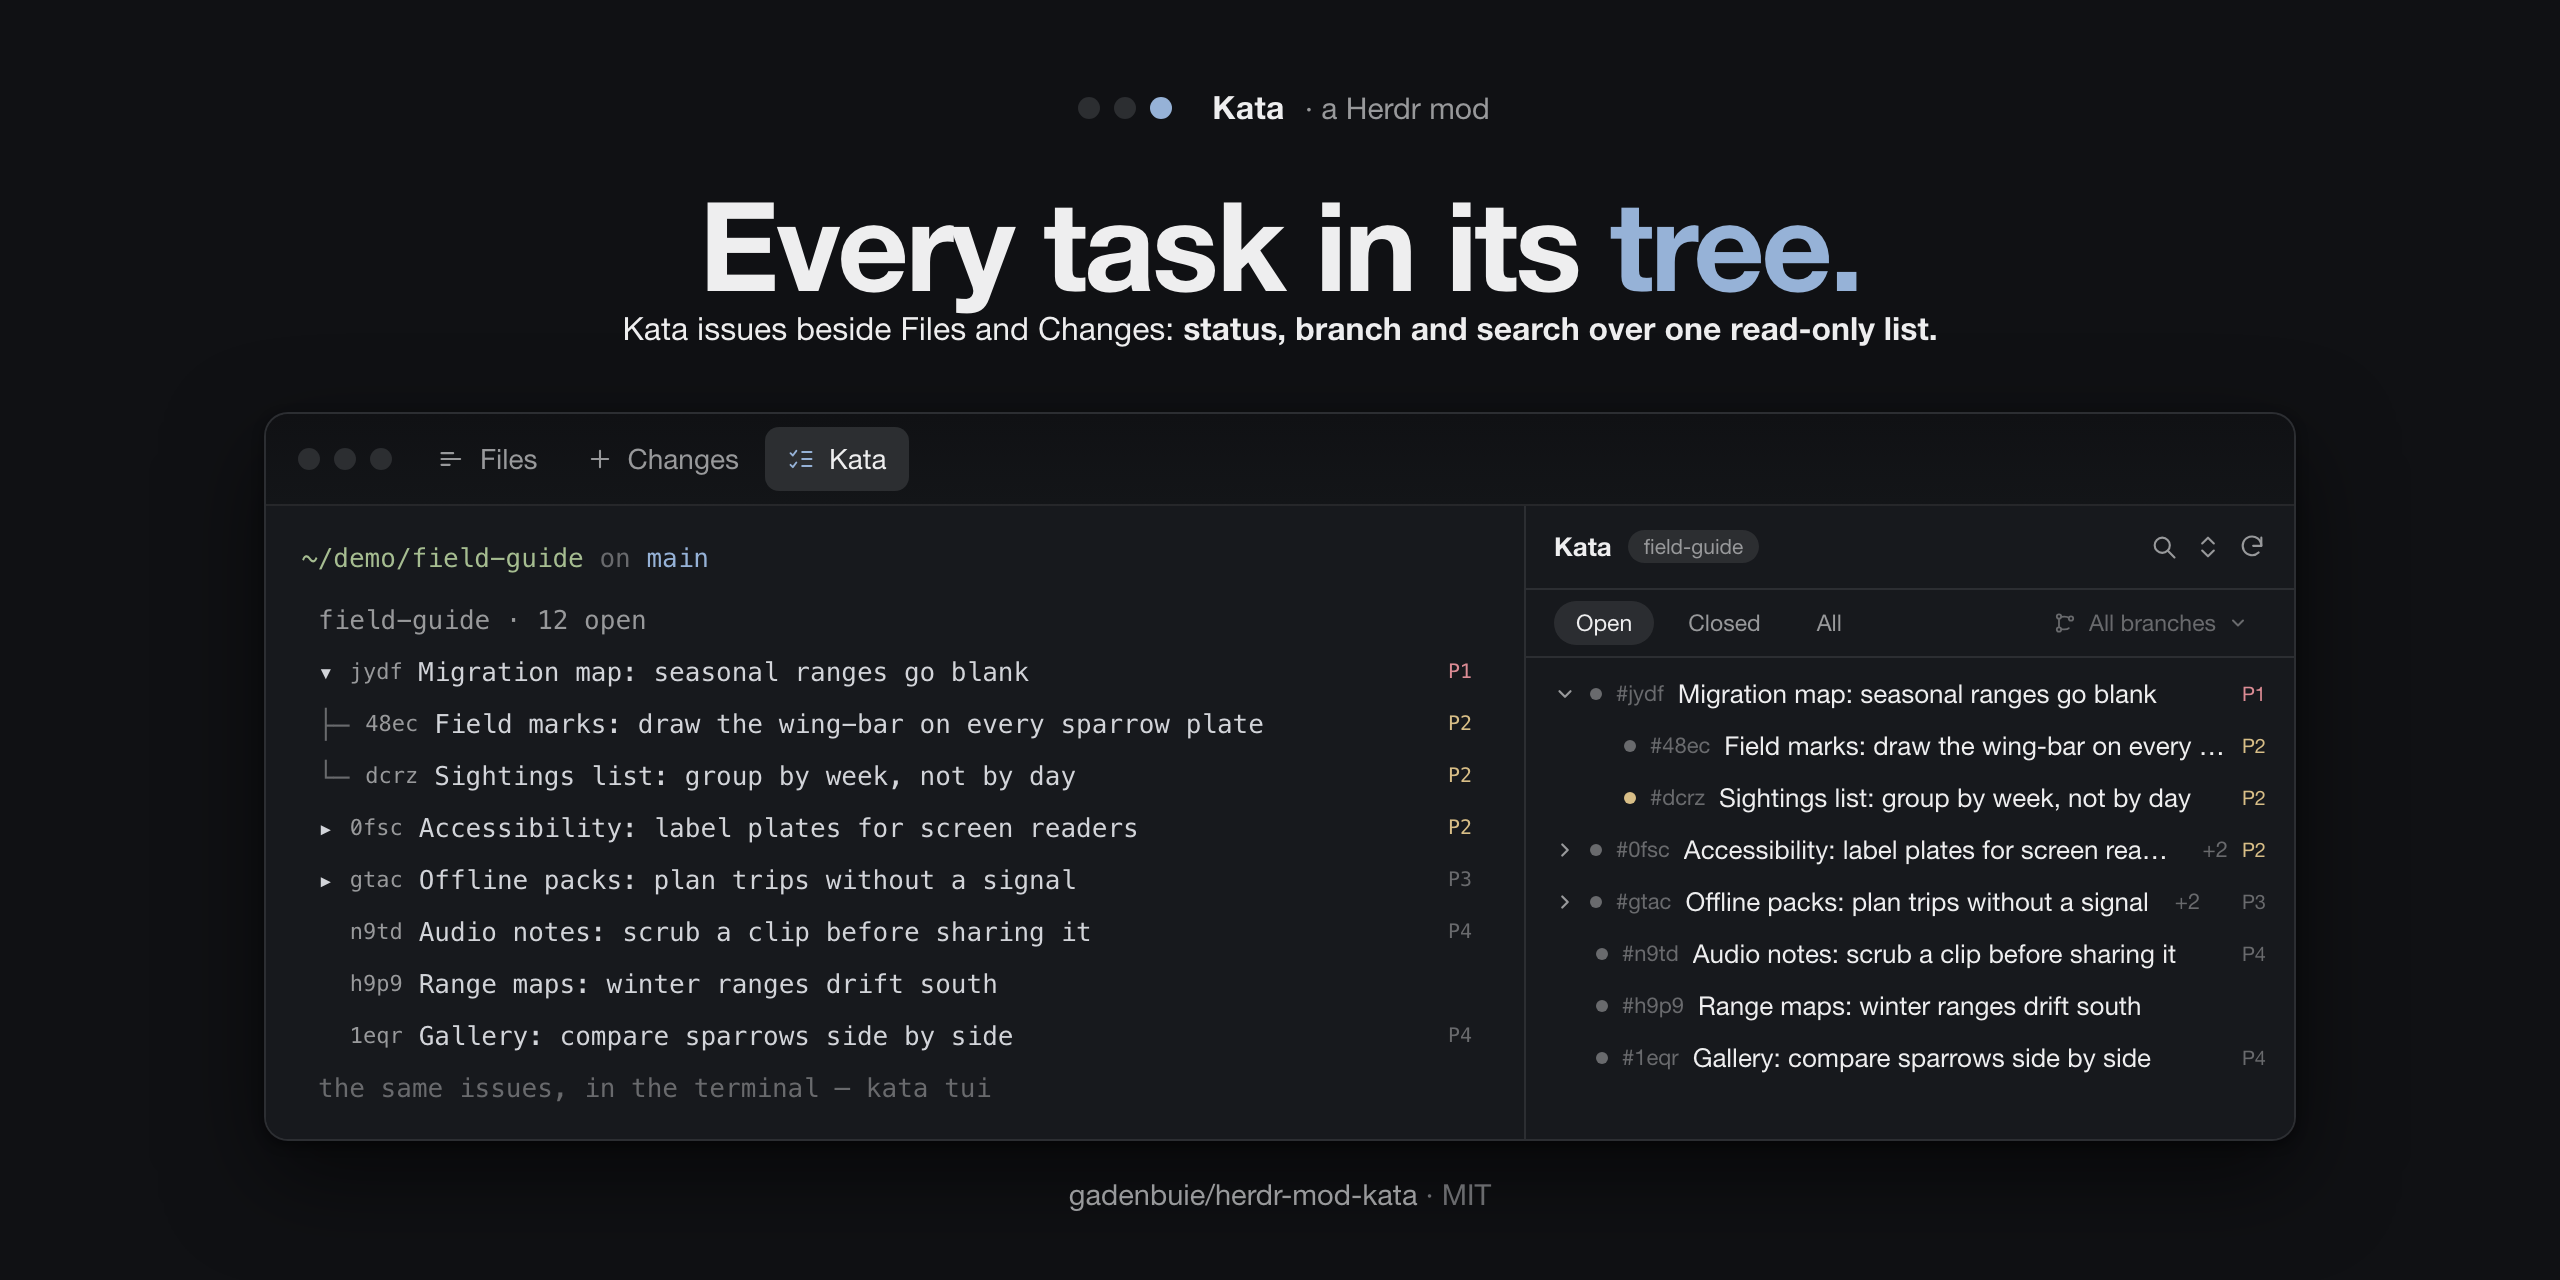
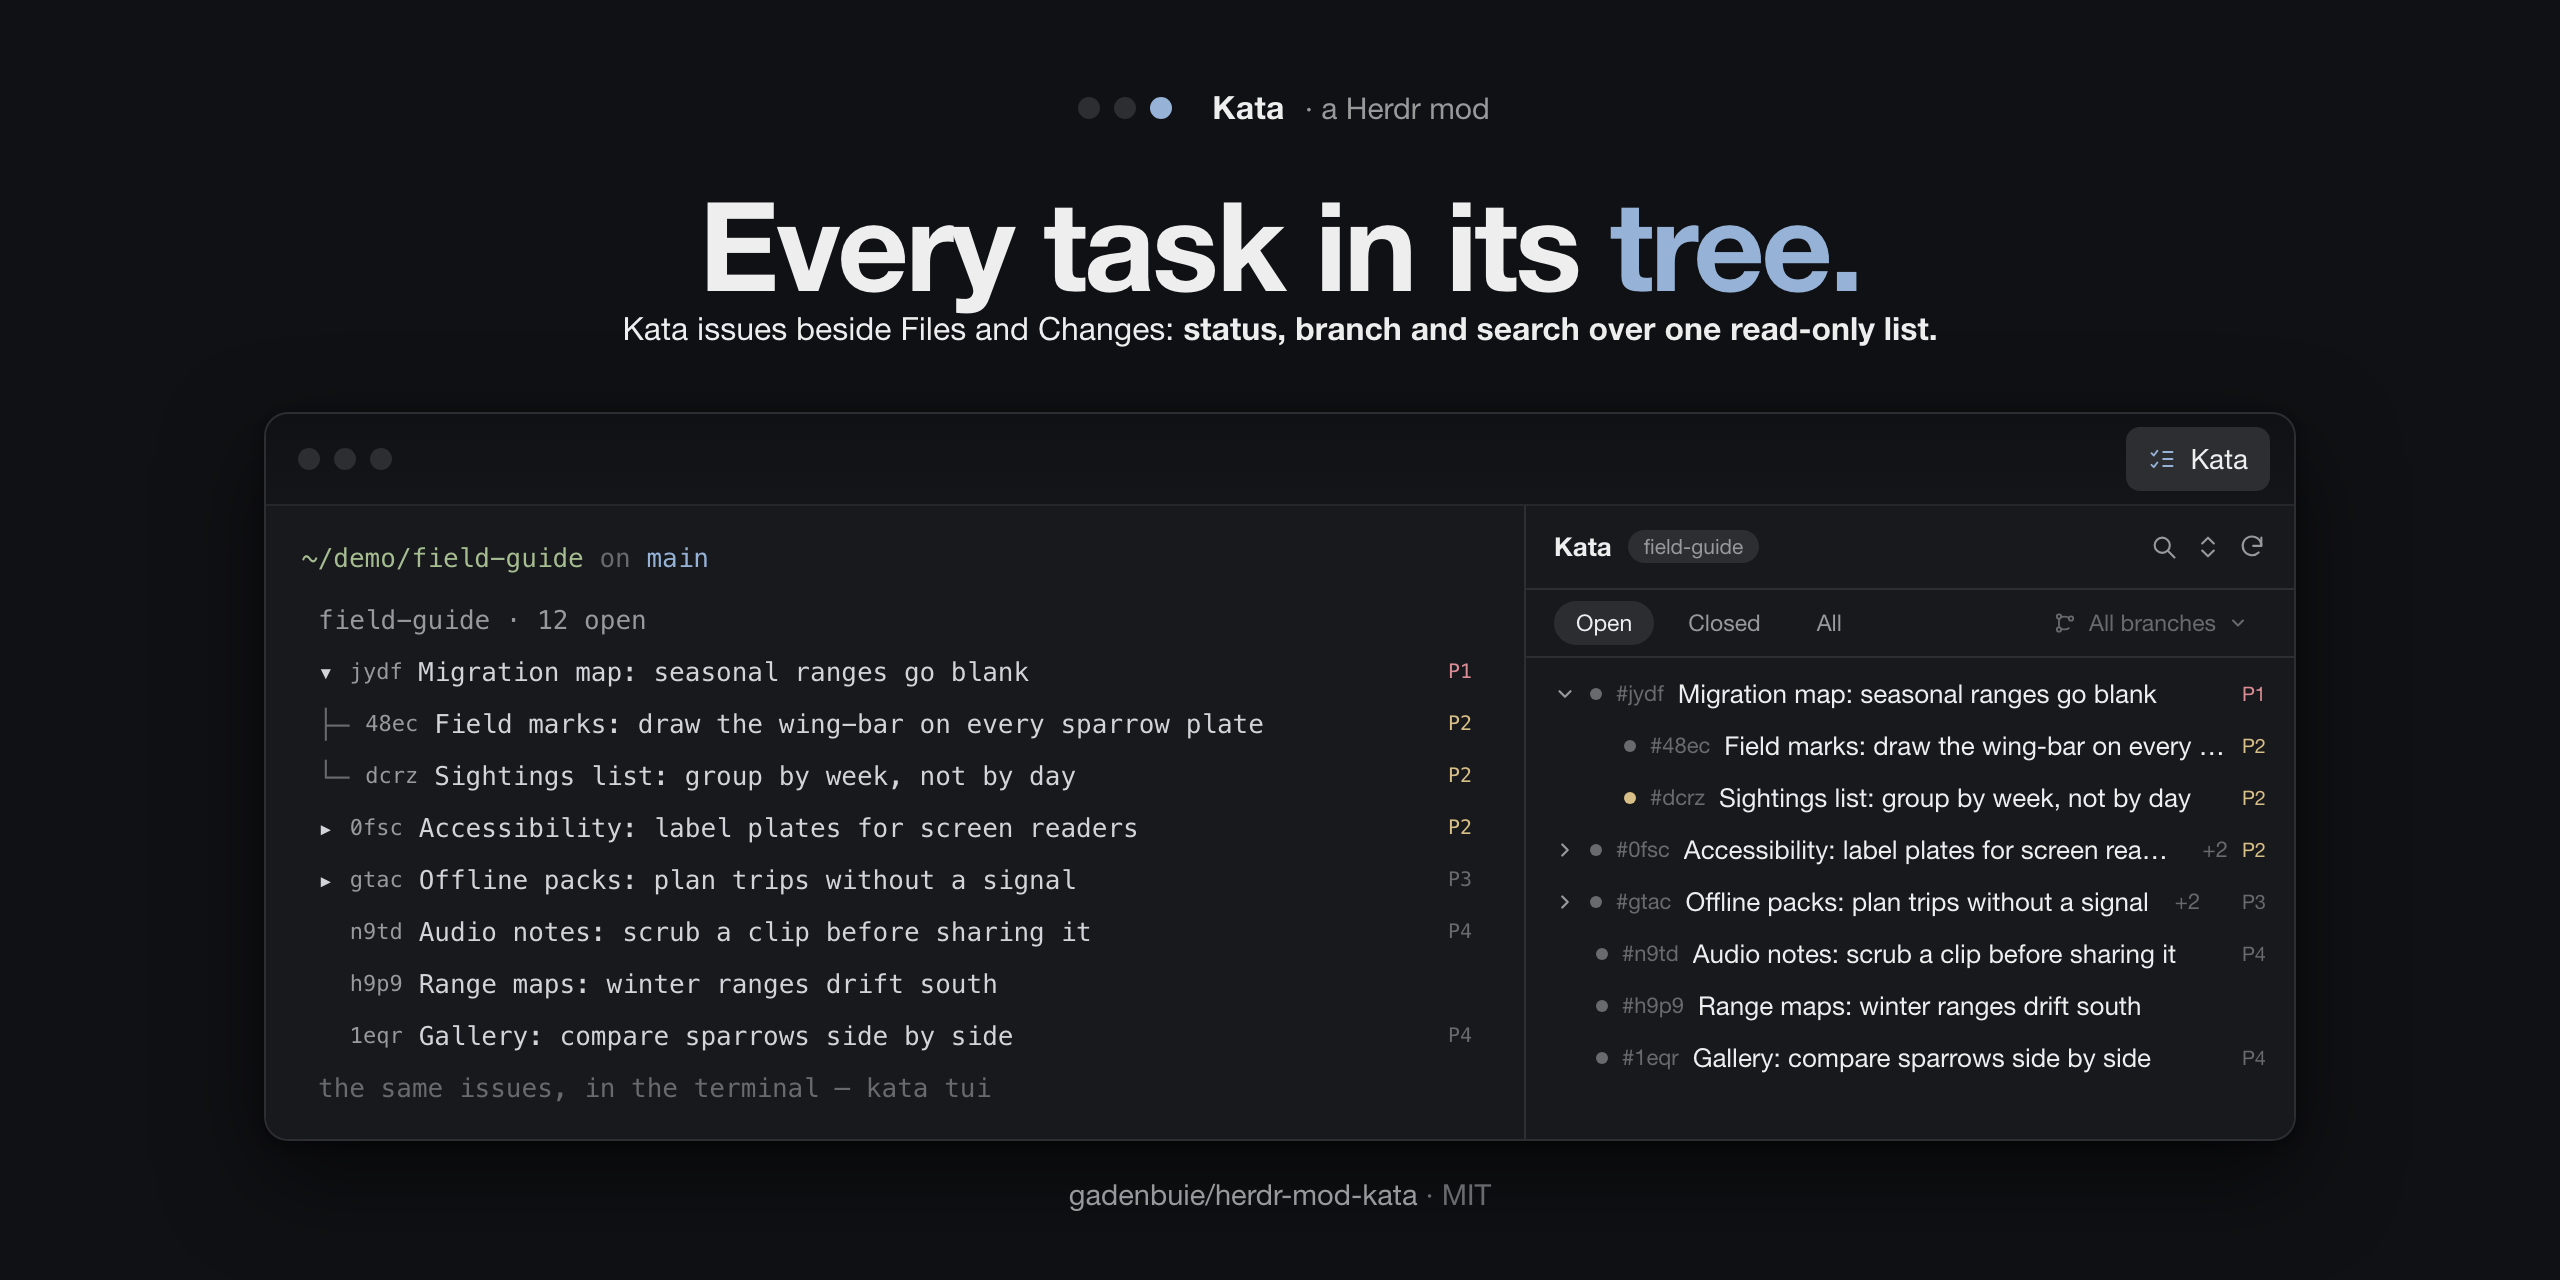
kata: Kata tab alone at the right end; install tab-host first

Changed region(s): [[0.25, 0.3125, 0.375, 0.4062], [0.8125, 0.3125, 0.9062, 0.4062], [0.1875, 0.3438, 0.2188, 0.375]]

diff --git a/assets/preview.html b/assets/preview.html
@@ -88,6 +88,7 @@
   }
   .tb.active { background: var(--raised); color: var(--fg); }
   .tb.active .glyph { color: var(--accent); }
+  .tb.active.push-right { margin-left: auto; }
   .body { display: flex; height: 318px; }
 
   /* the terminal: the same list, as `kata tui` shows it */
@@ -216,9 +217,7 @@
   <div class="window">
     <div class="tabbar">
       <span class="dots"><i></i><i></i><i></i></span>
-      <div class="tb"><svg width="14" height="14" viewBox="0 0 24 24" fill="none" stroke="currentColor" stroke-width="1.8" stroke-linecap="round" stroke-linejoin="round"><path d="M3 7h10M3 12h16M3 17h7"/></svg>Files</div>
-      <div class="tb"><svg width="14" height="14" viewBox="0 0 24 24" fill="none" stroke="currentColor" stroke-width="1.8" stroke-linecap="round" stroke-linejoin="round"><path d="M12 5v14M5 12h14"/></svg>Changes</div>
-      <div class="tb active"><svg class="glyph" width="14" height="14" viewBox="0 0 24 24" fill="none" stroke="currentColor" stroke-width="1.6" stroke-linecap="round" stroke-linejoin="round"><path d="M3 7l2 2 3-4M3 17l2 2 3-4M13 6h8M13 12h8M13 18h8"/></svg>Kata</div>
+      <div class="tb active push-right"><svg class="glyph" width="14" height="14" viewBox="0 0 24 24" fill="none" stroke="currentColor" stroke-width="1.6" stroke-linecap="round" stroke-linejoin="round"><path d="M3 7l2 2 3-4M3 17l2 2 3-4M13 6h8M13 12h8M13 18h8"/></svg>Kata</div>
     </div>
     <div class="body">
       <div class="terminal">

diff --git a/README.md b/README.md
@@ -80,7 +80,18 @@ starts on — one key, no UI:
 
 ## Install
 
-Herdr does not run a mod that lives behind a symlink, so installing is a copy:
+The button and the tab come from
+[tab-host](https://github.com/gadenbuie/herdr-mod-tab-host) — install that
+first if you don't have it (its `install.sh` copies the mod and wires every
+personal layout's tab bar):
+
+```sh
+git clone https://github.com/gadenbuie/herdr-mod-tab-host.git
+cd herdr-mod-tab-host && ./install.sh
+```
+
+Then this mod. Herdr does not run a mod that lives behind a symlink, so
+installing is a copy:
 
 ```sh
 git clone https://github.com/gadenbuie/herdr-mod-kata.git
@@ -89,8 +100,12 @@ rsync -rlpt --delete mods/kata/ ~/.config/herdr-app/mods/kata/
 herdr-app check ~/.config/herdr-app/mods/kata
 ```
 
-tab-host watches `mods/`, so the button and the panel appear the moment the
-copy lands, and both go when the folder does.
+tab-host watches `mods/`, so the **Kata** button appears at the right end of
+the tab bar the moment the copy lands, and both the button and the panel go
+when the folder does. With tab-host, using it is one click: the button opens
+the side panel on the Kata tab, the same button (or the key below) puts it
+away — and after the first click the panel keeps itself fresh in the
+background, so reopening it shows a list that is already up to date.
 
 ## Without tab-host
 
